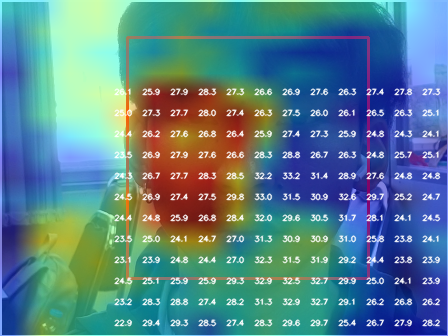
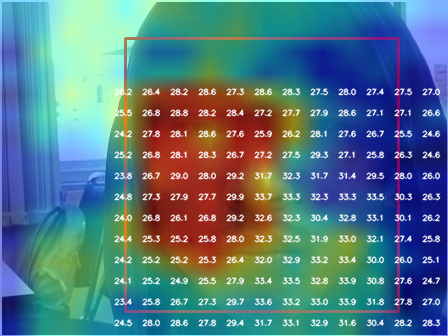
update mhr-bp

diff --git a/backend/module/blood_pressure/bp_module.py b/backend/module/blood_pressure/bp_module.py
@@ -3,7 +3,7 @@ from flask_socketio import SocketIO
 from typing import Dict, Any, Tuple
 
 import serial #type:ignore
-import RPi.GPIO as GPIO #type:ignore
+import RPi.GPIO as GPIO 
 
 import pytesseract as tess
 import cv2, time, os
@@ -209,11 +209,11 @@ def bp_ocr_reader(measure_time, ocr_cam):
     # rm_ocr_path = os.path.join(os.getcwd(), 'static', 'blood_pressure')
     # clear_and_ensure_folder(rm_ocr_path)
 
-    buffer_sys, buffer_dia = [], []
+    buffer_sys, buffer_dia , buffer_pulse= [], [], []
     start_time = time.time()
 
     picam2 = Picamera2(camera_num=ocr_cam)
-    config = picam2.create_preview_configuration(main={'format': 'RGB888', 'size': (640, 540)})
+    config = picam2.create_preview_configuration(main={'format': 'RGB888', 'size': (640, 720)})
     picam2.configure(config)
     info("PiCamera Configuation!")
     picam2.start()
